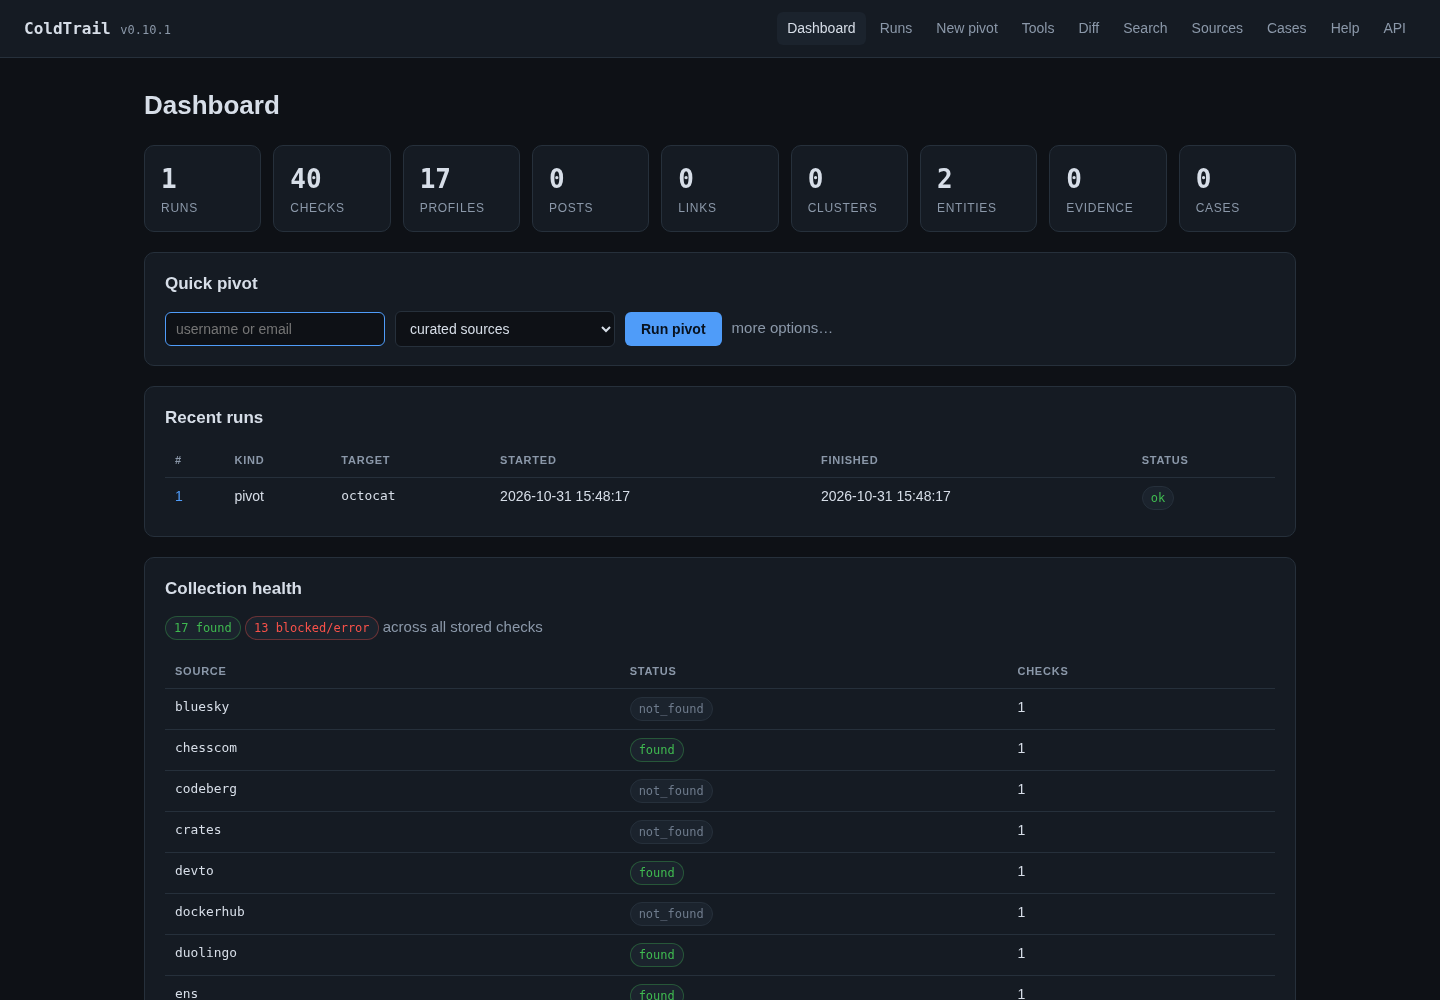
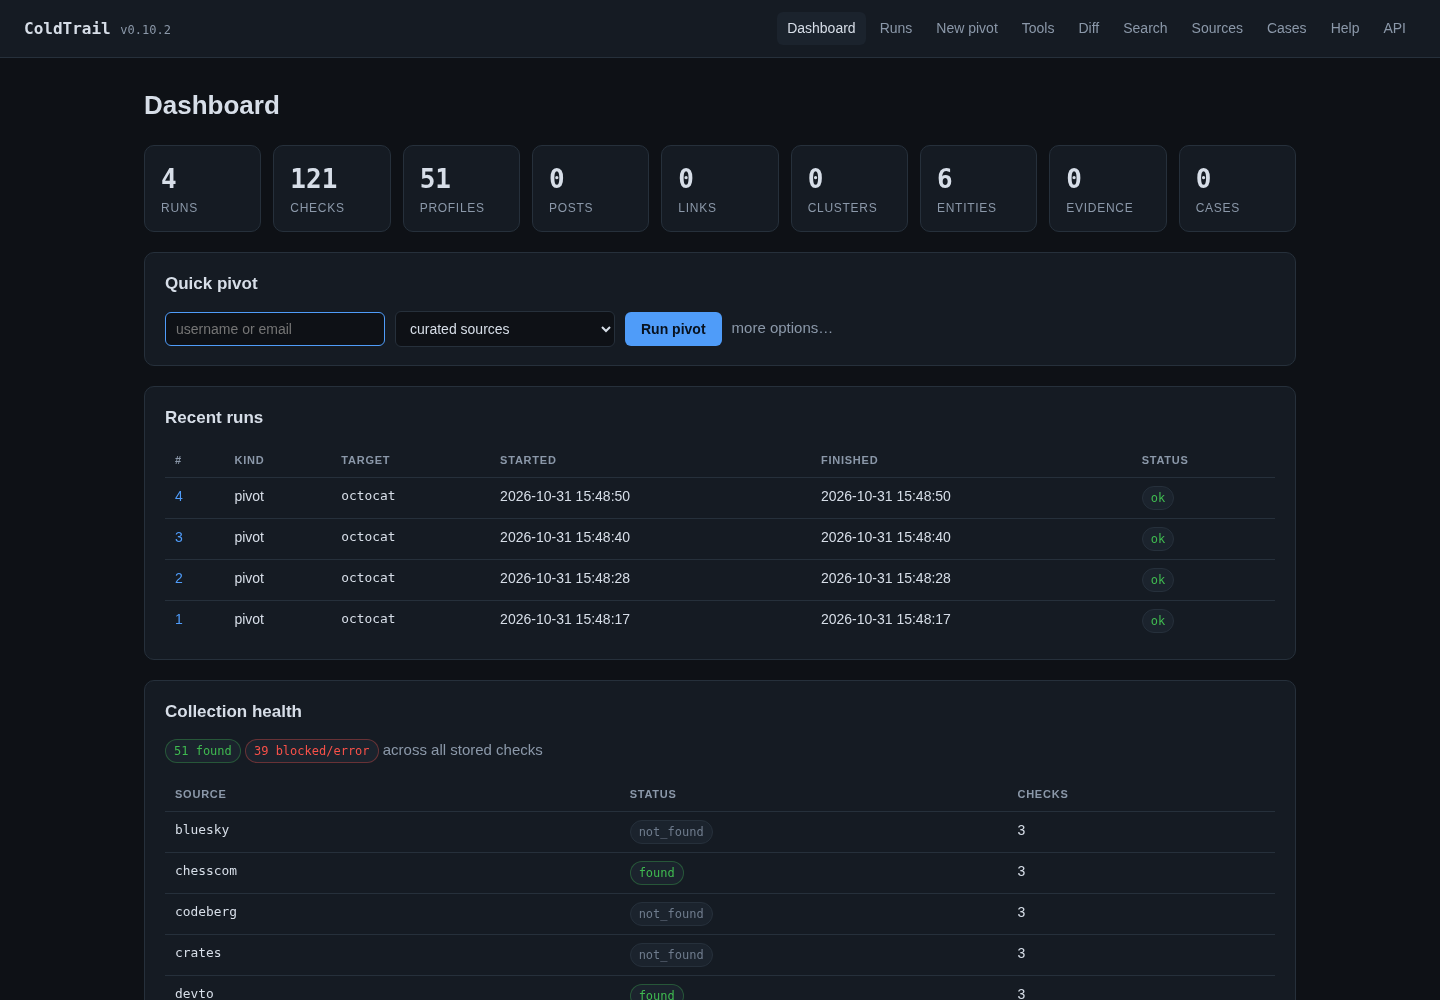
release: 0.10.2
Ship the 2026-10-31 hardening: pinned HTTP transport and TLS probe, Host/Origin guard, cookie expiry, config/store error paths, CSV injection defense, evidence streaming, and Pwned Passwords cache/error redaction. Tests use httpx2; docs match the pinned transport and the reverse-proxy Host opt-in.

diff --git a/docs/index.html b/docs/index.html
@@ -40,7 +40,7 @@
     "applicationCategory": "SecurityApplication",
     "applicationSubCategory": "Open Source Intelligence",
     "operatingSystem": "Linux, macOS, Windows",
-    "softwareVersion": "0.10.1",
+    "softwareVersion": "0.10.2",
     "license": "https://opensource.org/licenses/MIT",
     "codeRepository": "https://github.com/vezeqs/Cold-Trail",
     "url": "https://vezeqs.github.io/Cold-Trail/",

diff --git a/tests/test_breach.py b/tests/test_breach.py
@@ -12,7 +12,7 @@ from typer.testing import CliRunner
 from coldtrail.breach import hibp_breaches, pwned_password, sha1_prefix
 from coldtrail.cli import app
 from coldtrail.config import Settings
-from coldtrail.http import Fetcher
+from coldtrail.http import Fetcher, FetchError
 
 runner = CliRunner()
 
@@ -149,6 +149,38 @@ async def test_pwned_password_http_error(settings):
         async with Fetcher(settings) as fetcher:
             result = await pwned_password(fetcher, password)
     assert result["status"] == "error"
+
+
+async def test_pwned_password_error_does_not_echo_prefix():
+    password = "hunter2"
+    prefix, _ = sha1_prefix(password)
+
+    class FakeFetcher:
+        async def get_text(self, url, **kwargs):
+            raise FetchError(f"request to {url} failed")
+
+    result = await pwned_password(FakeFetcher(), password)
+    assert result["status"] == "error"
+    assert prefix not in result["detail"]
+
+
+async def test_pwned_password_hashes_the_cache_key():
+    password = "hunter2"
+    prefix, suffix = sha1_prefix(password)
+    captured = {}
+
+    class FakeFetcher:
+        async def get_text(self, url, **kwargs):
+            captured["url"] = url
+            captured["cache_key"] = kwargs.get("cache_key")
+            return 200, f"{suffix}:1"
+
+    result = await pwned_password(FakeFetcher(), password)
+    assert result["status"] == "pwned"
+    assert prefix in captured["url"]
+    assert captured["cache_key"].startswith("pwned:")
+    assert prefix not in captured["cache_key"]
+    assert password not in captured["cache_key"]
 
 
 # -- CLI --------------------------------------------------------------------

diff --git a/src/coldtrail/breach.py b/src/coldtrail/breach.py
@@ -182,9 +182,12 @@ async def pwned_password(fetcher: Fetcher, password: str) -> dict[str, Any]:
         fetcher,
         PWNED_RANGE_URL.format(prefix=prefix),
         headers={"Accept": "text/plain", "Add-Padding": "true"},
+        # The prefix is the only part of the hash that leaves the machine; keep
+        # it out of the local cache/raw key and any error detail as well.
+        cache_key=sensitive_cache_key("pwned", password),
     )
     if status is None:
-        return {"status": "error", "detail": text, "count": 0}
+        return {"status": "error", "detail": text.replace(prefix, "[redacted]"), "count": 0}
     if status != 200:
         return {"status": "error", "detail": f"HTTP {status}", "count": 0}
     count = 0

diff --git a/tests/test_audit_2026_10_31.py b/tests/test_audit_2026_10_31.py
@@ -496,6 +496,14 @@ def test_config_accepts_valid_values(tmp_path):
     assert loaded.tor is True
 
 
+def test_allow_remote_host_env_is_honoured(monkeypatch, tmp_path):
+    # A reverse proxy keeps the bind loopback but forwards the external Host;
+    # the documented opt-in must survive the config/env path.
+    monkeypatch.setenv("COLDTRAIL_ALLOW_REMOTE_HOST", "1")
+    settings = Settings.load(tmp_path / "missing.toml")
+    assert settings.allow_remote_host is True
+
+
 # -- finding 11: export permissions -----------------------------------------
 
 

diff --git a/src/coldtrail/config.py b/src/coldtrail/config.py
@@ -9,7 +9,7 @@ from typing import Any
 from .utils import redact_url_credentials
 
 DEFAULT_INSTANCES = ("mastodon.social", "fosstodon.org", "infosec.exchange")
-DEFAULT_UA = "coldtrail/0.10.1 (OSINT research; public data only)"
+DEFAULT_UA = "coldtrail/0.10.2 (OSINT research; public data only)"
 
 
 class ConfigError(ValueError):

diff --git a/src/coldtrail/__init__.py b/src/coldtrail/__init__.py
@@ -1,3 +1,3 @@
 """ColdTrail: OSINT pivoting and public profile/post harvesting."""
 
-__version__ = "0.10.1"
+__version__ = "0.10.2"

diff --git a/AUDIT-2026-10-31.md b/AUDIT-2026-10-31.md
@@ -8,8 +8,8 @@ defects in the web layer, the HTTP client, the domain/CT probes, the config
 loader, the export paths, and the test harness. Every finding below was
 reproduced; commands and observed output are quoted.
 
-Scope note: this pass started as **report-only**. A follow-up change fixes every
-finding below; the `Status` column names the regression test in
+Scope note: this pass started as **report-only**. A follow-up change addresses
+every actionable finding below; the `Status` column names the regression test in
 `tests/test_audit_2026_10_31.py` (or `tests/conftest.py` for the offline guard).
 Finding 15 was investigated and is **not a bug** — see below.
 
@@ -448,7 +448,45 @@ deleting it breaks the next command until a re-sync. Remove it yourself with
 
 ## Remaining risks
 
-- Finding 1 and 2 are design-level; neither is fixed here (report-only pass).
-- The DNS-rebinding TOCTOU in `is_public_host` remains documented, and finding 2
-  is a second, unmitigated instance of it.
-- `example.com` was contacted once during this audit by the test in finding 3.
+- The initial host check is still a TOCTOU for proxied clients: `--proxy`/`--tor`
+  leaves name resolution to the proxy. Direct HTTP connections are pinned to the
+  validated address (`_PinnedTransport`), and the TLS probe resolves and pins too.
+  Keep the web UI on loopback or behind an authenticating proxy.
+- `example.com` was contacted once during the original audit by the test in
+  finding 3. That test now patches the TLS probe and `tests/conftest.py` blocks
+  real sockets, so the suite is offline.
+- Correlation, timezone inference, and at-rest encryption remain documented
+  limits in `SECURITY.md` and `README.md`; none is a regression from this pass.
+
+## Pre-ship verification (2026-10-31)
+
+Run after the fixes above, on the working tree on top of `efeb32a`:
+
+- `uv run pytest -q`: 617 passed (offline; `tests/conftest.py` blocks sockets).
+- `uv run ruff check .`, `ruff format --check .`, `uv run mypy`: clean.
+- `uv build --wheel`: the wheel includes `data/sites.toml`, `schemas.py`,
+  17 templates, and 2 static files.
+- `uvx bandit -r src/coldtrail`: 0 high, 14 medium B608 false positives
+  (constant SQL fragments; every value is parameterized). The 11 low findings
+  are non-security or intentional: `B107`/`B105` hardcoded test/default
+  strings, `B311` pacing jitter, `B404`/`B603` argv-only subprocess calls,
+  `B406` output escaping (not XML parsing), and `B112` a best-effort wayback
+  probe.
+- `uvx pip-audit`: no known vulnerabilities.
+- Live `pivot octocat --no-save --json`: 40 checks (17 found, 9 blocked,
+  4 error, 10 not found); failures stayed isolated.
+- Web `TestClient`: pages and APIs 200; foreign `Host` 403; cross-origin POST
+  403; SSE job stream reached `done`; bearer / `X-API-Key` / cookie auth 200;
+  wrong token 401; `/login` rate limit 429; non-loopback bind without a token
+  exits 2.
+- Evidence add/list/export/verify; a corrupted blob is detected (exit 1).
+- Privacy hardening: Pwned Passwords hashes its cache/raw key and redacts the
+  5-character prefix from error details (regression tests in `test_breach.py`).
+- Retention removed an old run, attachment, audit row, and blob; current data
+  stayed.
+- Exports: json, jsonl, csv, graphml, gexf, dot, html, md, stix, sarif, and
+  maltego; redact, encrypt/decrypt, dossier, and HTML diff all produced output.
+- Docs: `test_docs_drift.py` and `test_media_manifest.py` pass; local links,
+  sitemap, robots, and JSON-LD are valid; version 0.10.2 is consistent.
+- Secret scan: no `gho_`/`ghp_`/`sk-`/`AKIA`/private-key material; no tracked
+  database, `.env`, or generated artifact.

diff --git a/SECURITY.md b/SECURITY.md
@@ -35,13 +35,16 @@ When exposed behind a reverse proxy:
 
 - set `--token` (or `COLDTRAIL_WEB_TOKEN`),
 - set `COLDTRAIL_TRUST_PROXY=1` so rate limiting keys on `X-Forwarded-For`,
+- set `COLDTRAIL_ALLOW_REMOTE_HOST=1` so the Host guard accepts the proxy's
+  external hostname (the bind stays loopback, so `serve --host` does not set it),
 - terminate TLS at the proxy and forward `X-Forwarded-Proto`,
 - keep the job store single-process (in-memory jobs are not shared across
   `uvicorn --workers`).
 
-The tools workbench can query arbitrary domains/IPs (including internal ones),
-run local external binaries, and fetch URLs. Treat it as an operator console:
-do not expose it to untrusted users, even with a token.
+The tools workbench can query public domains/IPs and, with
+`--allow-private-targets`, internal ones; it can also run local external
+binaries and fetch URLs. Treat it as an operator console: do not expose it to
+untrusted users, even with a token.
 
 ## Privacy design
 
@@ -100,10 +103,12 @@ third-party content, so prune them.
 
 ## Accepted limitations
 
-- **DNS rebinding / TOCTOU.** Host validation resolves a name once; the HTTP
-  client may resolve it again. Closing this needs a pinned-IP transport or a
-  resolver hook. Treat the web UI as an operator console and keep it on
-  loopback or behind an authenticating proxy.
+- **DNS rebinding / TOCTOU.** Host validation resolves a name once. Direct HTTP
+  connections are pinned to the validated address (`_PinnedTransport`), and the
+  TLS probe resolves and pins too, so a hostile second DNS answer cannot redirect
+  them. A proxied client (`--proxy`/`--tor`) leaves resolution to the proxy, which
+  is then the trust boundary. Treat the web UI as an operator console and keep it
+  on loopback or behind an authenticating proxy.
 - **`resolve=False` in source probes.** Mastodon/Nostr/domain/avatar checks skip
   DNS for the initial host so offline tests stay deterministic. The web layer
   calls `ensure_public_target()` first; the CLI exposes

diff --git a/README.md b/README.md
@@ -222,7 +222,8 @@ ColdTrail is designed to keep investigations on your machine.
   loopback `Host` header; a non-GET request with a foreign `Origin` or a cross-site
   `Sec-Fetch-Site` is answered `403`. That closes DNS rebinding and drive-by form posts
   from any page the analyst happens to visit. A deliberate non-loopback bind opts in with
-  `--host` plus a token (or `COLDTRAIL_ALLOW_REMOTE_HOST=1`).
+  `--host` plus a token (or `COLDTRAIL_ALLOW_REMOTE_HOST=1`); behind a reverse proxy, set
+  `COLDTRAIL_ALLOW_REMOTE_HOST=1` as well so the proxy's external hostname is accepted.
 - **Redaction and encryption.** Exports support `--redact`; encrypted exports use
   PBKDF2 + Fernet.
 - **Retention.** `--retention-days N` or `prune --days N` removes old runs, raw/cache rows,
@@ -250,10 +251,11 @@ machines. `--raw` and the local HTTP cache can retain third-party content. See
   handle used to demonstrate the mechanics.
 - **Timezone inference is ambiguous.** Posting-hour analysis cannot distinguish
   UTC+13 from UTC-11; the value is a hint.
-- **DNS rebinding is a known TOCTOU.** Host validation resolves once; direct HTTP
-  connections are pinned to the validated address (`_PinnedTransport`), and the TLS
-  probe resolves and pins too, but a proxied client leaves resolution to the proxy.
-  Keep the web UI on loopback or behind an authenticating proxy.
+- **DNS rebinding is a known TOCTOU for proxied clients.** Host validation
+  resolves once; direct HTTP connections are pinned to the validated address
+  (`_PinnedTransport`), and the TLS probe resolves and pins too, but `--proxy`/
+  `--tor` leaves resolution to the proxy. Keep the web UI on loopback or behind an
+  authenticating proxy.
 - **The TLS probe needs a direct connection.** `domain --deep` skips the raw TLS
   handshake when `--tor` or `--proxy` is set (it would otherwise bypass the proxy and
   leak your address); the payload reports `tls_skipped` instead of a certificate.

diff --git a/AGENTS.md b/AGENTS.md
@@ -188,8 +188,11 @@ src/coldtrail/
 - **Redirect SSRF:** `follow_redirects=True` means the final URL must be checked
   again (`is_public_host(..., resolve=False)`); a public URL can redirect to
   `127.0.0.1`.
-- **`is_public_host` returns `True` on DNS failure** and validation is TOCTOU.
-  This is a documented limitation; do not turn a resolver outage into a block.
+- **`is_public_host` returns `True` on DNS failure** and the initial check is
+  still a TOCTOU for proxied clients. Direct HTTP connections are pinned
+  (`_PinnedTransport`) and the TLS probe resolves once; a proxy resolves the name,
+  so the proxy is the trust boundary there. Do not turn a resolver outage into a
+  block.
 - **`resolve=False`** is used by Mastodon/Nostr/domain/avatar probes to keep
   offline tests deterministic. The web layer calls `ensure_public_target()` first;
   the CLI exposes `--allow-private-targets`.
@@ -348,7 +351,7 @@ src/coldtrail/
 - Formatting of unrelated files; do not reformat the whole tree in a fix PR.
 - Generated output: `dist/`, `.coverage`, caches, `tests/fixtures/contracts/_record.db*`.
 - Existing commit trailers or the historical `slopmanufacturer` login.
-- Public APIs without a deprecation path (`Store`, `coldtrail.cli:app`,
+- Public APIs without a deprecation path (`Store`, `coldtrail.cli:app`/`main`,
   `persist_pivot`, the JSON API shapes, and the schema `--json` contracts).
 
 ## Web API surface

diff --git a/CHANGELOG.md b/CHANGELOG.md
@@ -6,6 +6,8 @@ All notable changes to this project are documented here. The format follows
 
 ## [Unreleased]
 
+## [0.10.2] - 2026-10-31
+
 ### Fixed
 
 - Web UI: requests with a non-loopback `Host` header are refused, and non-GET
@@ -42,6 +44,8 @@ All notable changes to this project are documented here. The format follows
   instead of returning an empty result.
 - Evidence: `add_evidence(source_path=...)` streams the file instead of reading
   it into RAM, and `verify_evidence` pages through attachments.
+- Pwned Passwords keeps the 5-character hash prefix out of the local cache/raw
+  key and out of error details; the request still sends only the prefix.
 
 ### Changed
 
@@ -49,6 +53,11 @@ All notable changes to this project are documented here. The format follows
   `pytest-asyncio` 1.4.1, `ruff` 0.17.3; GitHub Actions `checkout` v7,
   `configure-pages` v6, `deploy-pages` v5, `upload-pages-artifact` v5, and
   `codeql-action` v4.
+- Tests use Starlette's supported `httpx2` test client (dev-only), so the suite
+  no longer emits the `httpx` deprecation warning.
+- `SECURITY.md`, `README.md`, and `AGENTS.md` now describe the pinned-transport
+  behavior and the `COLDTRAIL_ALLOW_REMOTE_HOST=1` requirement behind a reverse
+  proxy.
 - TUI tests now read `Static` text on both Textual 2.x and 8.x via a
   `_static_text()` helper.
 - The login cookie is `"<issued>.<hmac>"` and expires server-side; it is still a

diff --git a/AUDIT.md b/AUDIT.md
@@ -1,7 +1,7 @@
 # ColdTrail audit — 2026-10-30
 
 > Newer record: [AUDIT-2026-10-31.md](AUDIT-2026-10-31.md) (independent pass,
-> 15 open findings).
+> 20 findings: 19 fixed, 1 not a bug).
 
 Baseline: `master` @ `86fc516` (v0.9.0), 526 tests, ruff/mypy/bandit clean.
 Scope: security, privacy, correctness, export integrity, documentation claims.
